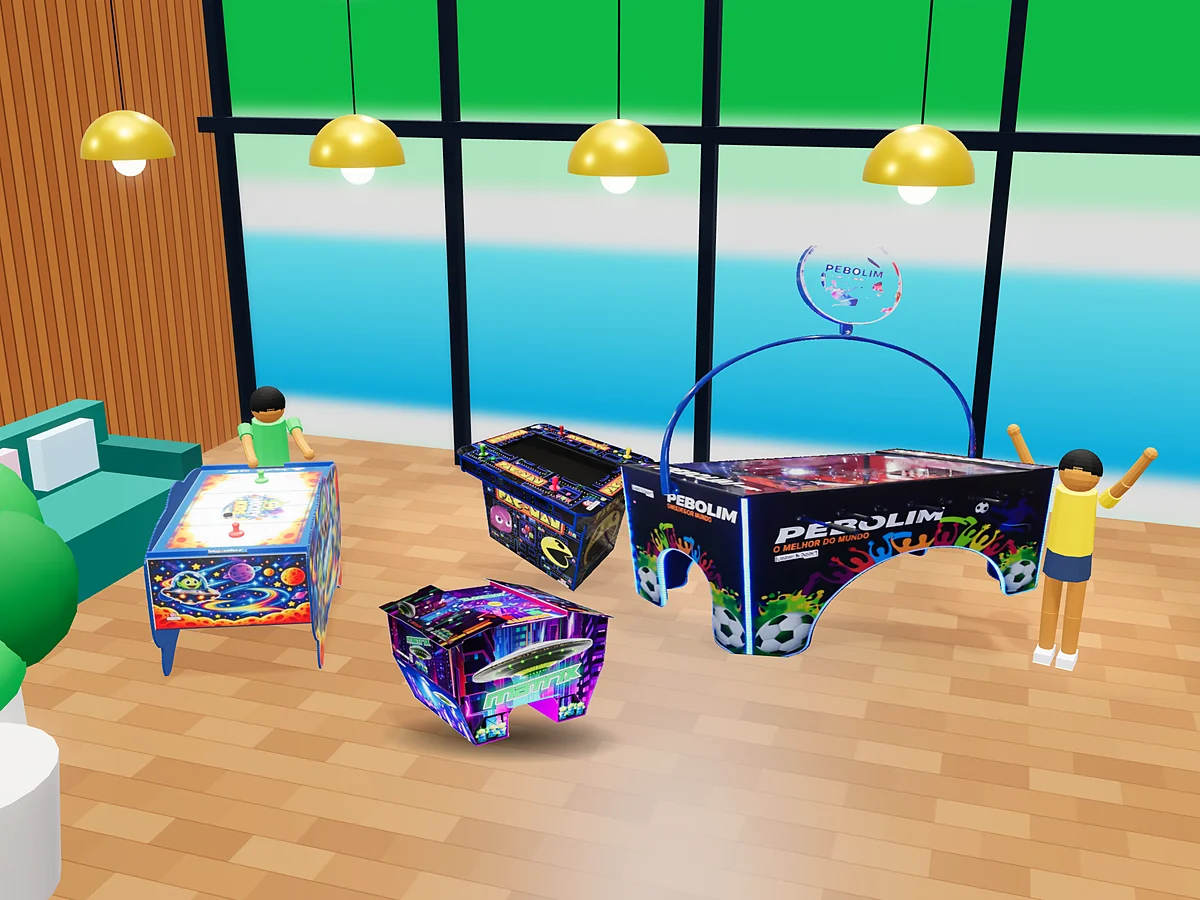
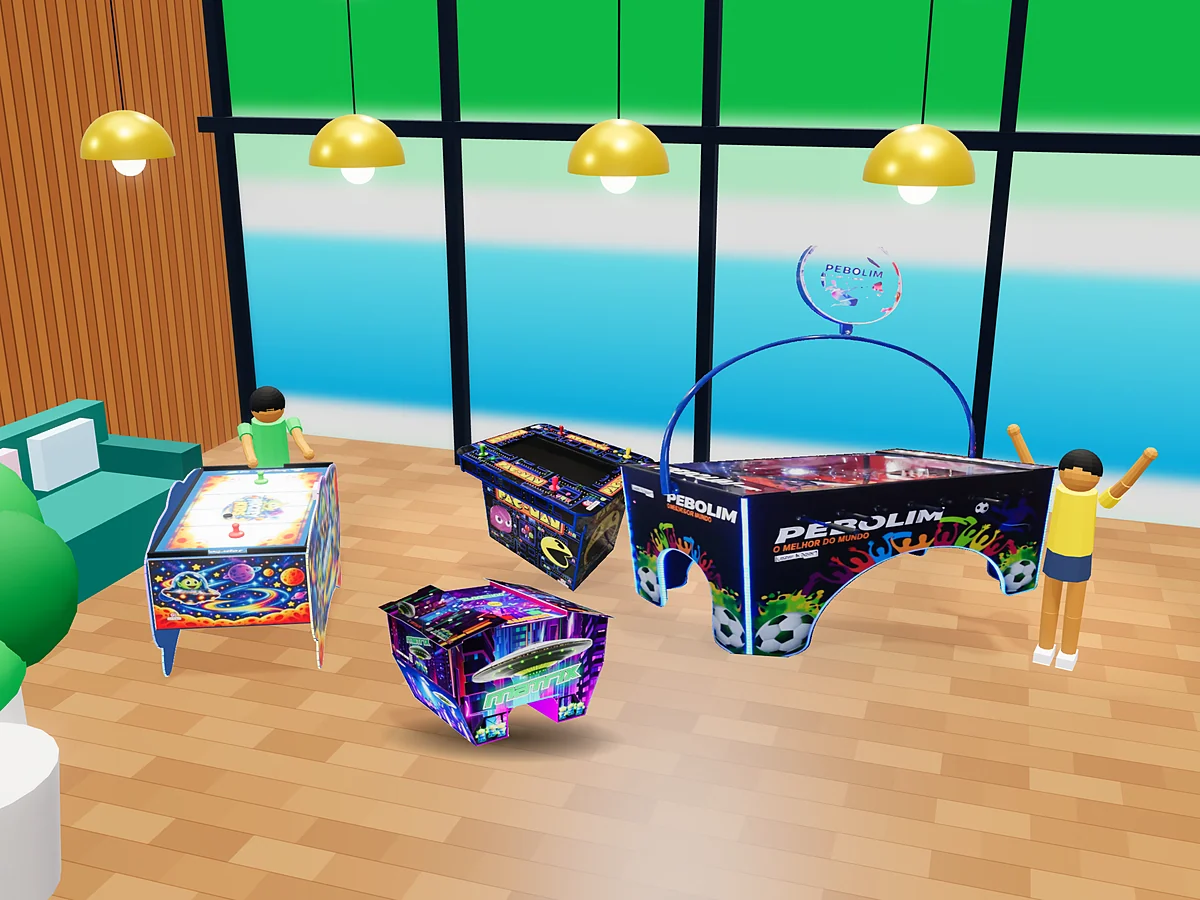
Basquete e Air Game com o 3D novo nas capas e nas fotos das categorias (0154)
- gerar.cjs --glb basquete-street-quadrinhos --glb air-game-kids-alienigenas
  --compor: as capas em cena dos dois e as fotos de Eletrônicos,
  Competitivos, Famosos, Esportivos, Kids, Espaço Kids Play e Jogos de Mesa
  (as que o cenasComGlb aponta; Mecânicos e Trampolins não usam estes .glb)
- Competitivos e Eletrônicos: as máquinas afastadas para o basquete novo
  (com a rampa) aparecer inteiro
- 0154_basquete_e_air_game_reais: no Render, refaz à força a galeria dos dois
  que o cadastro subiu e sobe as fotos das categorias que mudaram; em todo
  lugar, religa o objeto 3D ao .glb de hoje; se falhar, avisa os comandos
- testes (BasqueteEAirGameReaisTests) e um parágrafo na seção 60 do LEIA-ME

Claude-Session: https://claude.ai/code/session_01BdLQMKFKjxTHdFwtnUJngg

Changed region(s): [[0.0925, 0.4978, 0.3083, 0.7467], [0.3392, 0.7156, 0.4008, 0.8089]]

diff --git a/ferramentas/categorias/cenas.js b/ferramentas/categorias/cenas.js
@@ -425,9 +425,10 @@ const CENAS = {
     lugarOp: { fundo: [] },
   },
   // Eletrônicos: o Basquete Street Quadrinhos, o Strike Kids e o Air Game Kids Alienígenas (3D) e o Mundo Zumbi (foto)
+  // (o basquete mais à esquerda: o Air Game na frente não tapa o console dele)
   eletronicos: {
     maquinas: async () => grupo(
-      await glb("basquete-street-quadrinhos", { x: -1.35, z: -0.5, r: 16 }),
+      await glb("basquete-street-quadrinhos", { x: -1.8, z: -0.6, r: 16 }),
       await glb("strike-kids", { x: 0.05, z: -0.45, r: 0 }),
       await maquina("mundo-zumbi", { x: 1.35, z: -0.3, r: -8 }),
       await glb("air-game-kids-alienigenas", { x: -0.05, z: 1.4, r: 10 }),
@@ -499,15 +500,16 @@ const CENAS = {
     lugar: "salao", lente: 40, giro: 18, altura: 18,
   },
   // Competitivos: o Basquete Street Quadrinhos (3D) e o Basquete Street (foto) lado a lado, e o Air Game Premium (foto)
+  // à direita -- nenhum na frente do outro (o basquete de hoje, com a rampa, aparece inteiro)
   competitivos: {
     maquinas: async () => grupo(
-      await glb("basquete-street-quadrinhos", { x: -0.62, z: 0, r: 0 }),
-      await maquina("basquete-street", { x: 0.7, z: 0.05, r: -4 }),
-      await maquina("air-game-premium", { x: 1.6, z: 2.3, r: -8 }),
+      await glb("basquete-street-quadrinhos", { x: -1.3, z: 0, r: 0 }),
+      await maquina("basquete-street", { x: 0.6, z: -0.9, r: -4 }),
+      await maquina("air-game-premium", { x: 2.85, z: 1.0, r: -8 }),
     ),
     vida: () => grupo(
-      crianca(0, "comemorando", { x: -1.75, z: 0.9, r: 30 }),
-      crianca(3, "jogando", { x: 1.75, z: 1.75, r: -8 }),
+      crianca(0, "comemorando", { x: -2.6, z: 0.6, r: 30 }),
+      crianca(3, "jogando", { x: 4.0, z: 1.4, r: -60 }),
     ),
     lugar: "gamezone", lente: 40, giro: 22, altura: 11,
     lugarOp: { fundo: ["nervo-teste", "mundo-zumbi", "pega-toupeira", "multi-jogos-retro", "pinball-40", "sonic-dash", "homem-aranha"] },

diff --git a/core/tests_capas_em_cena.py b/core/tests_capas_em_cena.py
@@ -17,7 +17,12 @@ protegem:
   * o card fixo "Peças e acessórios" da home é a foto das peças de verdade
     do catálogo, de ponta a ponta (sem o carrossel de antes);
   * a 0153 refaz, só no Render, a galeria que o cadastro subiu (uma vez), e
-    nunca derruba o deploy.
+    nunca derruba o deploy;
+  * a 0154 (o 3D novo do Basquete Street Quadrinhos e do Air Game Kids
+    Alienígenas, seção 61): no Render, refaz à força a galeria dos dois que o
+    cadastro subiu (mesmo com a capa em cena da 0153) e sobe as fotos das
+    categorias que mudaram; em todo lugar, religa o objeto 3D ao .glb de
+    hoje; nunca derruba o deploy.
 """
 
 import importlib
@@ -35,10 +40,13 @@ from django.test import TestCase, override_settings
 from django.urls import reverse
 from PIL import Image, ImageStat
 
+from . import categorias_capas
 from .cadastro_modelos import CADASTROS
-from .models import Brinquedos, ImagemBrinquedo, PecasReposicao
+from .models import Brinquedos, ImagemBrinquedo, ObjetoTresD, PecasReposicao
+from .objetos_3d import ler_glb_do_site
 
 migracao = importlib.import_module("core.migrations.0153_capas_em_cena")
+migracao_0154 = importlib.import_module("core.migrations.0154_basquete_e_air_game_reais")
 
 FERRAMENTA = Path(__file__).resolve().parent.parent / "ferramentas" / "categorias"
 #: Os produtos com a capa em cena (o Modelo 5 tem a do salão da fábrica).
@@ -266,3 +274,110 @@ class MigracaoTests(TestCase):
             brinquedo.refresh_from_db()
             self.assertEqual(brinquedo.imagens_brinquedo.count(), 2)
             self.assertIn(f"{chave}-frente", brinquedo.imagem_brinquedo.name)
+
+
+@override_settings(IS_RENDER=False)
+class BasqueteEAirGameReaisTests(TestCase):
+    """A 0154: o 3D novo dos dois (seção 61) no site -- as fotos, o objeto e as fotos das categorias."""
+
+    def _do_cadastro(self, chave, capa="capa"):
+        """Como a 0153 deixou: as fotos que o cadastro subiu, com a capa em cena (do 3D de antes)."""
+        dados = CADASTROS[chave]
+        brinquedo = Brinquedos.objects.create(
+            nome_brinquedo=dados["nome"], descricao="x", avaliacao=5, voltz="220v",
+            imagem_brinquedo=f"imagens_brinquedos/{chave}-{capa}.webp",
+        )
+        for ordem, (arquivo, tipo, _texto) in enumerate(dados["fotos"], start=1):
+            ImagemBrinquedo.objects.create(brinquedo=brinquedo, tipo=tipo, ordem=ordem, texto_alternativo="do 3D de antes",
+                                           imagem=f"imagens_brinquedos/{chave}-{Path(arquivo).stem}-antes.webp")
+        ObjetoTresD.objects.create(brinquedo=brinquedo, arquivo_estatico=dados["objeto_3d"], codigo=chave,
+                                   medidas=[1.0, 1.0, 1.0], cores=[])
+        return brinquedo
+
+    def _rodar(self, pasta=None, render=True):
+        avisos = []
+        with mock.patch.object(categorias_capas, "subir_fotos_no_deploy") as categorias, mock.patch("builtins.print"):
+            if render:
+                a, b = _disco(pasta)
+                with a, b, override_settings(IS_RENDER=True):
+                    migracao_0154.refazer(apps_reais, None, avisar=avisos.append)
+            else:
+                migracao_0154.refazer(apps_reais, None, avisar=avisos.append)
+        return " ".join(avisos), categorias
+
+    def test_vem_depois_da_0153(self):
+        self.assertEqual(migracao_0154.Migration.dependencies, [("core", "0153_capas_em_cena")])
+        self.assertIs(migracao_0154.Migration.operations[0].code, migracao_0154.refazer)
+        self.assertEqual(set(migracao_0154.CHAVES), {"basquete-street-quadrinhos", "air-game-kids-alienigenas"})
+
+    def test_fora_do_render_so_religa_o_3d(self):
+        brinquedos = {chave: self._do_cadastro(chave) for chave in migracao_0154.CHAVES}
+        avisos, categorias = self._rodar(render=False)
+        self.assertEqual(avisos, "")
+        categorias.assert_not_called()
+        for chave, brinquedo in brinquedos.items():
+            with self.subTest(chave):
+                self.assertTrue(all("antes" in f.imagem.name for f in brinquedo.imagens_brinquedo.all()))
+                objeto = ObjetoTresD.objects.get(brinquedo=brinquedo)
+                # as medidas e as cores do .glb de hoje
+                lido = ler_glb_do_site(CADASTROS[chave]["objeto_3d"])
+                self.assertEqual((objeto.medidas, objeto.cores), (lido["medidas"], lido["cores"]))
+
+    def test_no_render_refaz_a_forca_mesmo_com_a_capa_da_0153(self):
+        brinquedos = {chave: self._do_cadastro(chave) for chave in migracao_0154.CHAVES}
+        with tempfile.TemporaryDirectory() as pasta:
+            avisos, categorias = self._rodar(pasta)
+            for chave, brinquedo in brinquedos.items():
+                with self.subTest(chave):
+                    brinquedo.refresh_from_db()
+                    fotos = list(brinquedo.imagens_brinquedo.order_by("ordem"))
+                    dados = CADASTROS[chave]
+                    self.assertEqual([f.tipo for f in fotos], [tipo for _, tipo, _ in dados["fotos"]])
+                    self.assertEqual([f.texto_alternativo for f in fotos], [texto for _, _, texto in dados["fotos"]])
+                    self.assertFalse(any("antes" in f.imagem.name for f in fotos))
+                    self.assertIn(f"{chave}-capa", brinquedo.imagem_brinquedo.name)
+                    # o arquivo que subiu é a capa de hoje (a do 3D novo)
+                    with open(Path(pasta) / brinquedo.imagem_brinquedo.name, "rb") as subiu, \
+                            open(dados["pasta"] / "capa.webp", "rb") as de_hoje:
+                        self.assertEqual(subiu.read(), de_hoje.read())
+                    self.assertIn(dados["nome"], avisos)
+        # as fotos das categorias com estes .glb também sobem (só as que mudaram)
+        categorias.assert_called_once()
+        self.assertEqual(Brinquedos.objects.count(), 2)
+
+    def test_as_fotos_do_painel_ficam(self):
+        brinquedo = Brinquedos.objects.create(
+            nome_brinquedo=CADASTROS["air-game-kids-alienigenas"]["nome"], descricao="x", avaliacao=5,
+            imagem_brinquedo="imagens_brinquedos/foto-da-loja.webp",
+        )
+        with tempfile.TemporaryDirectory() as pasta:
+            self.assertEqual(self._rodar(pasta)[0], "")
+        brinquedo.refresh_from_db()
+        self.assertEqual(brinquedo.imagem_brinquedo.name, "imagens_brinquedos/foto-da-loja.webp")
+        # o objeto 3D é ligado mesmo assim (o .glb de hoje)
+        self.assertEqual(brinquedo.objeto_3d.codigo, "air-game-kids-alienigenas")
+
+    def test_a_subida_falha_e_o_deploy_segue(self):
+        basquete = self._do_cadastro("basquete-street-quadrinhos")
+        with tempfile.TemporaryDirectory() as pasta, \
+                mock.patch.object(FileSystemStorage, "save", side_effect=OSError("sem rede")):
+            avisos, categorias = self._rodar(pasta)
+        self.assertIn("python manage.py cadastrar_variantes_adesivo --so basquete-street-quadrinhos --fotos", avisos)
+        # nada pela metade: a galeria de antes fica até o comando refazer; o 3D e as categorias seguem
+        basquete.refresh_from_db()
+        self.assertTrue(all("antes" in f.imagem.name for f in basquete.imagens_brinquedo.all()))
+        lido = ler_glb_do_site(CADASTROS["basquete-street-quadrinhos"]["objeto_3d"])
+        self.assertEqual(basquete.objeto_3d.medidas, lido["medidas"])
+        categorias.assert_called_once()
+
+    def test_as_fotos_com_estes_glb_sao_as_que_o_gerar_refaz(self):
+        # gerar.cjs --glb basquete-street-quadrinhos --glb air-game-kids-alienigenas refaz as capas
+        # dos dois e as fotos das categorias onde eles aparecem -- e só estas sobem na 0154
+        lista = json.loads((FERRAMENTA / "maquinas-das-fotos.json").read_text(encoding="utf-8"))
+        com_os_dois = {chave for chave, maquinas in lista.items()
+                       if {"Basquete Street Quadrinhos (3D)", "Air Game Kids Alienígenas (3D)"} & set(maquinas)}
+        self.assertEqual(com_os_dois, {"espaco-kids-play", "eletronicos", "jogos-de-mesa", "competitivos", "famosos",
+                                       "esportivos", "kids"})
+        capas = json.loads((FERRAMENTA / "maquinas-das-capas.json").read_text(encoding="utf-8"))
+        for chave in migracao_0154.CHAVES:
+            self.assertEqual(capas[chave][0], CADASTROS[chave]["nome"] + " (3D)")

diff --git a/core/migrations/0154_basquete_e_air_game_reais.py b/core/migrations/0154_basquete_e_air_game_reais.py
@@ -1,0 +1,78 @@
+"""O Basquete Street Quadrinhos e o Air Game Kids Alienígenas iguais às máquinas de verdade, no site (a 0154).
+
+A seção 61 refez o 3D dos dois (o basquete com o gabinete do Basquete Home,
+a rampa com as bolas, a bola vazada nas laterais, o moedeiro, o neon e o
+placar; o Air Game com o LED na borda, a régua preta e o placar) e as fotos
+do cadastro deles (frente, lados, verso, jogador / tampo). Com o 3D novo,
+foram refeitas também as cenas que usam esses .glb (ferramentas/categorias:
+`gerar.cjs --glb ...`): as capas em cena dos dois (a da 0153) e as fotos das
+categorias onde eles aparecem.
+
+Esta:
+  * SÓ NO RENDER (o Cloudinary só está lá): a galeria de cada um dos dois que
+    é a que o cadastro subiu (e não fotos postas pelo painel) é refeita À
+    FORÇA com as fotos de hoje -- mesmo que a 0153 já tenha posto a capa em
+    cena: a capa e as vistas mudaram, com o mesmo nome de arquivo;
+  * em todo lugar (só o banco, como a 0150): o objeto 3D é religado ao .glb
+    de hoje, com as cores e as medidas dele; um .glb enviado pelo painel
+    continua valendo;
+  * SÓ NO RENDER: sobem as fotos das categorias que mudaram (as que têm um
+    destes .glb; `atualizar_capas`, como a 0152).
+Se uma subida falhar, o deploy segue e o aviso diz o comando:
+    python manage.py cadastrar_variantes_adesivo --so <chave> --fotos
+    python manage.py atualizar_capas_categorias
+"""
+
+from django.db import migrations, transaction
+
+from core.cadastro_modelos import migracao_objetos_3d
+
+#: As duas máquinas refeitas (as chaves de core/cadastro_modelos.py, CADASTROS).
+CHAVES = ("basquete-street-quadrinhos", "air-game-kids-alienigenas")
+
+
+def refazer(apps, schema_editor, avisar=print):
+    from django.conf import settings
+
+    from core import categorias_capas
+    from core.cadastro_modelos import CADASTROS, cadastrar, fotos_do_cadastro
+
+    no_render = getattr(settings, "IS_RENDER", False)
+    if no_render:
+        Brinquedos = apps.get_model("core", "Brinquedos")
+        for chave in CHAVES:
+            dados = CADASTROS[chave]
+            brinquedo = Brinquedos.objects.filter(nome_brinquedo=dados["nome"]).first()
+            if brinquedo is None or not fotos_do_cadastro(brinquedo, chave):
+                continue  # fora do catálogo (a ligação abaixo cadastra) ou com as fotos do painel
+            try:
+                with transaction.atomic():
+                    cadastrar(
+                        chave,
+                        Brinquedos,
+                        apps.get_model("core", "CategoriasBrinquedos"),
+                        apps.get_model("core", "ImagemBrinquedo"),
+                        refazer_fotos=True,
+                        avisar=lambda *_: None,
+                    )
+                avisar(f"As fotos do {dados['nome']} agora são as do 3D novo ({len(dados['fotos'])} na galeria).")
+            except Exception as erro:  # o deploy segue; o comando refaz depois
+                avisar(f"As fotos do {dados['nome']} não foram refeitas agora ({erro!r}). "
+                       f"Rode: python manage.py cadastrar_variantes_adesivo --so {chave} --fotos")
+    # o objeto 3D com o .glb de hoje (as cores e as medidas), em todo lugar
+    for chave in CHAVES:
+        migracao_objetos_3d(chave)(apps, schema_editor)
+    if no_render:
+        # as fotos das categorias com estes .glb (só as que mudaram; se falhar, avisa o comando)
+        categorias_capas.subir_fotos_no_deploy(apps, schema_editor, avisar=avisar)
+
+
+class Migration(migrations.Migration):
+
+    dependencies = [
+        ("core", "0153_capas_em_cena"),
+    ]
+
+    operations = [
+        migrations.RunPython(refazer, migrations.RunPython.noop),
+    ]
